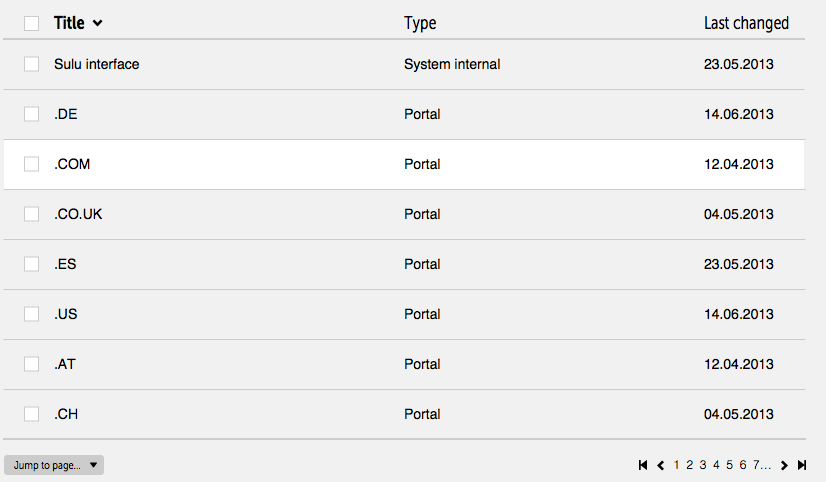
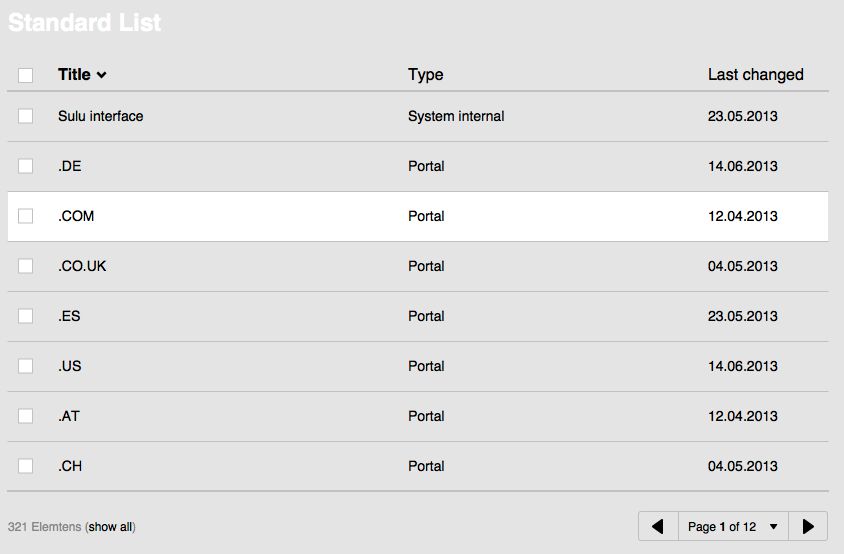
Update column tree

diff --git a/system-requirements/100-basic/1100_general.md b/system-requirements/100-basic/1100_general.md
@@ -29,9 +29,17 @@ The basic user interface concept defines UI layout with the basic UI elements an
 
 ######LISTS:
 
+![Standard list](https://raw.github.com/massiveart/sulu-docs/master/system-requirements/images/list_general.png)
+
+Fig. Standard list
+
 ![Contacts list](https://raw.github.com/massiveart/sulu-docs/master/system-requirements/images/list_contacts.png)
 
 Fig. Contacts list view
+
+![Column tree](https://raw.github.com/massiveart/sulu-docs/master/system-requirements/images/column-tree.png)
+
+Fig. Column tree for user-generated content (Webspaces)
 
 ######NAVIGATION:
 
